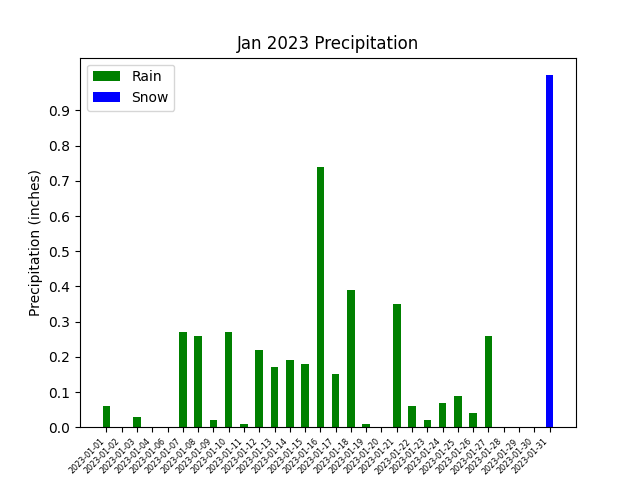
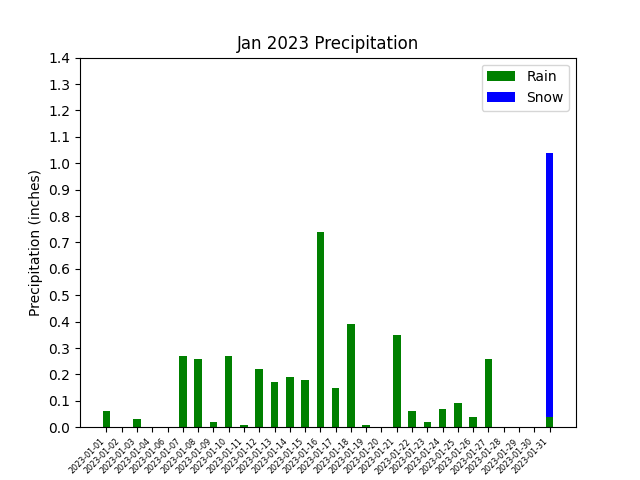
fixing bar stack error

diff --git a/graphing_from_csv/csv_to_graph_01.py b/graphing_from_csv/csv_to_graph_01.py
@@ -46,11 +46,11 @@ def main():
     ind = np.arange(N)
     width = .5
     p1 = plt.bar(ind, rain, width, color='green')
-    p2 = plt.bar(ind, snow, width, color='blue')
+    p2 = plt.bar(ind, snow, width, color='blue', bottom=rain)
     plt.ylabel("Precipitation (inches)")
     plt.title("Jan 2023 Precipitation")
     plt.xticks(ind, date, rotation=45, fontsize='xx-small', ha='right')
-    plt.yticks(np.arange(0, 1, .1))
+    plt.yticks(np.arange(0, 1.5, .1))
     plt.legend(["Rain", "Snow"])
     # SAVE the graph locally
     plt.savefig("Precipitation_Jan_2023.png")
